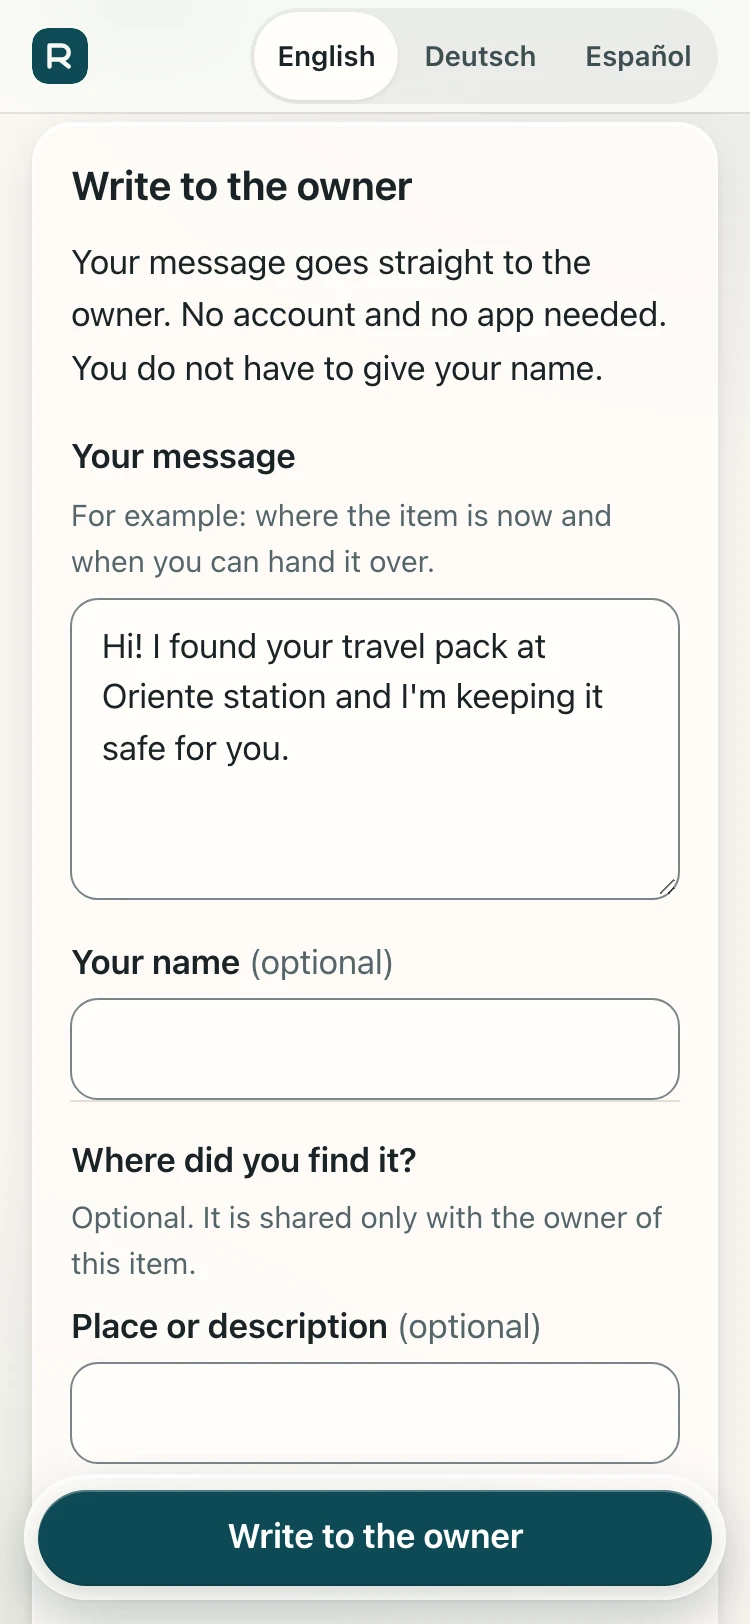
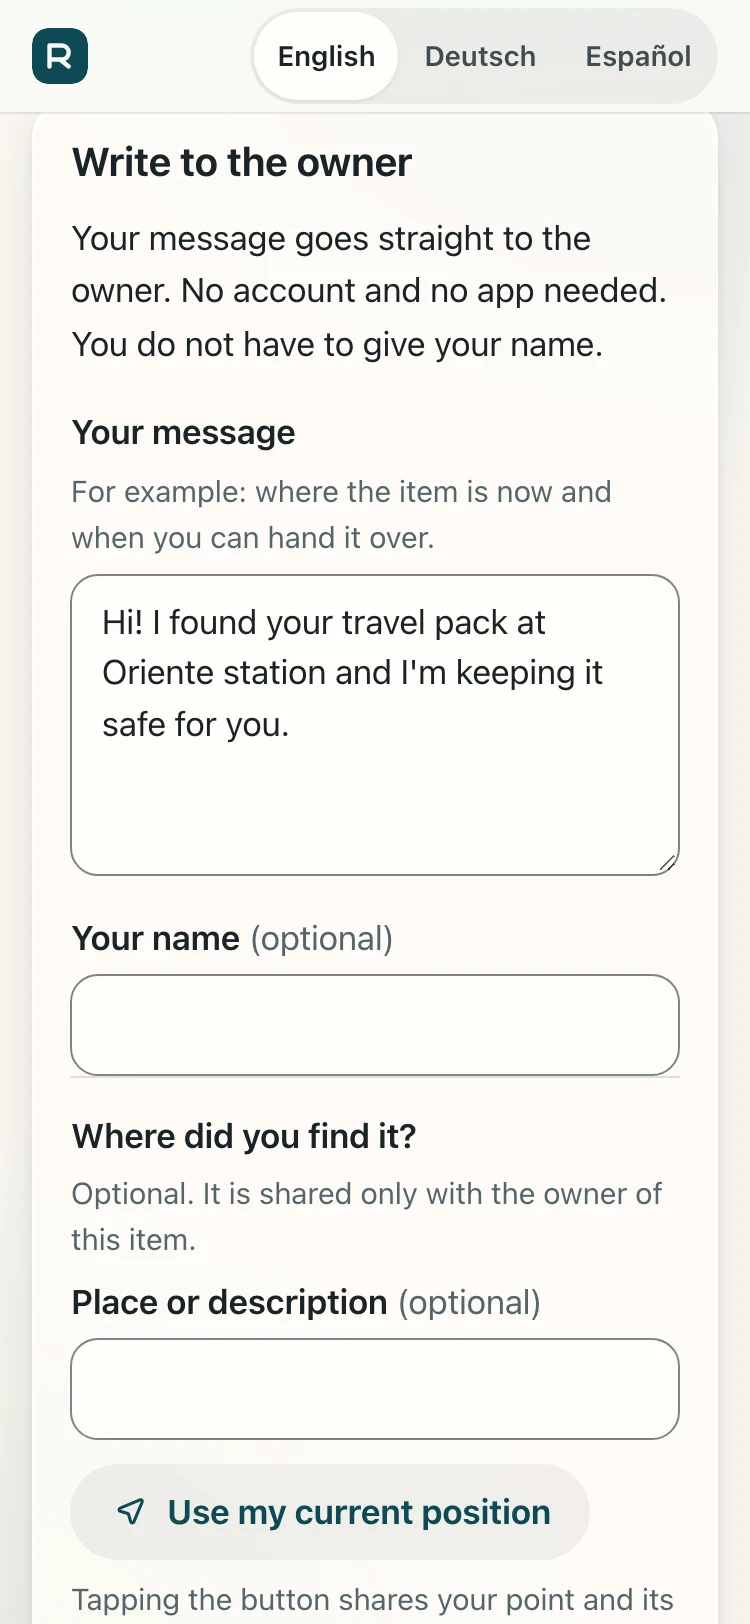
docs: README screenshots of the new UI and docs for the mobile release
Regenerated README screenshots (fictional data) showing the chat, luggage illustrations and icons; README features, layout and commands; CLAUDE.md icon pipeline and chat contracts; operations (migration 0006, sprite caching, theme-init precache), security (owner location, timeline polling), decisions, plan section J.

diff --git a/README.md b/README.md
@@ -12,17 +12,24 @@ no shared instance for other people to sign up to.
 
 ## Features
 
-- **Finder pages** (`/t/<token>`) in English, German and Spanish. A finder can see the public card, start a
-  conversation, and share a location after an explicit tap. First contact is protected by Cloudflare Turnstile
-  and per-IP, per-tag and per-conversation rate limits.
+- **Finder pages** (`/t/<token>`) in English, German and Spanish. A finder can see the public card and start a
+  conversation. The conversation is one chat timeline with live refresh: Enter sends, and the finder can share
+  their location in one tap (two-stage geolocation, coarse then precise). First contact is protected by Cloudflare
+  Turnstile and per-IP, per-tag and per-conversation rate limits.
 - **Owner panel** at a separate host, behind Cloudflare Access. Manage items, tags, conversations, return plans
-  and recoveries, and settings.
+  and recoveries, and settings. The conversation view is a chat too. The owner can pick their own location for a
+  return plan or an item, or share it in a conversation, after an explicit tap.
+- **Icons and illustrations**: one custom icon set shared by the panel and the finder pages, and a dimensional
+  illustration per luggage category as the placeholder when there is no photo.
 - **Printable cards**: a card layout (CR80 size, with bleed and trim marks), plus a quick paper card as PNG or PDF.
   Printing notes are in `docs/printing.md`.
 - **Place names** for shared coordinates via OpenStreetMap Nominatim. Coordinates are shown when no name resolves.
 - **Email alerts** to the owner through Cloudflare Email Service (`send_email` binding).
-- **Installable owner PWA** (service worker never caches private data).
-- **Web Push** for the owner: in progress.
+- **Installable owner PWA**: Android install button, iOS Add to Home Screen guide, offline shell, update toast.
+  The service worker never caches private data.
+- **Web Push** to the owner's devices. Payloads carry no message content and are encrypted for each device (RFC 8291).
+- **Planned**: proof photos for items, shared with one finder only through revocable, time-limited grants
+  (ADR 0006).
 
 ## Screenshots
 
@@ -79,10 +86,13 @@ Versions are pinned in `package.json`. Decisions are in `docs/decisions.md`.
 | `src/app/` | Owner panel SPA (React) |
 | `src/shared/` | zod schemas, QR, map links, card layouts; shared by Worker and SPA |
 | `src/sw/` | Owner PWA service worker |
-| `public/p/` | Static files for finder pages (served without the Worker) |
+| `src/assets/` | Icon (`icons/`), empty-state (`empty/`) and luggage illustration (`item-art/`) sources; `pnpm icons:build` compiles them into `src/app/ui/*.generated.ts` and the sprite `public/p/icons.svg` (generated, do not edit) |
+| `public/p/` | Static files for finder pages (served without the Worker): progressive-enhancement scripts, the icon sprite |
+| `vite/` | Vite plugins: service worker build (`sw-plugin.ts`) and icon compilation (`icons.ts`) |
+| `wrangler.example.jsonc` | Committed Wrangler template; the real `wrangler.jsonc` is git-ignored |
 | `migrations/` | D1 SQL migrations; applied migrations are never edited |
 | `test/`, `e2e/` | Unit and integration tests (in workerd), Playwright end-to-end tests |
-| `scripts/` | Release guard, VAPID key generation, icon generation, backup and restore helpers |
+| `scripts/` | Release guard, VAPID key generation, icon build and PWA icon generation, backup and restore helpers |
 | `docs/` | Decisions, security, operations, printing, design system, ADRs, specs, architecture |
 
 ## Run locally
@@ -95,6 +105,14 @@ pnpm install
 cp .dev.vars.example .dev.vars   # local secrets; git-ignored, never commit it
 pnpm db:migrate:local
 pnpm dev                    # panel at http://localhost:5173, tag pages at /t/<token>
+```
+
+Assets (run after changing anything in `src/assets/`, or the PWA icons):
+
+```bash
+pnpm icons:build            # compile src/assets into the generated TypeScript modules and public/p/icons.svg
+pnpm icons:pwa              # regenerate the PWA PNG icons (needs Playwright's Chromium)
+pnpm screenshots            # regenerate the README screenshots with fictional data
 ```
 
 Locally the panel is reachable without Access through a loopback-only development bypass. The dev bypass only
@@ -144,15 +162,16 @@ uses your `wrangler.jsonc` when it exists and the template otherwise.
 
 ## Status and roadmap
 
-Current: finder pages, owner panel, items, tags, conversations, return plans, recoveries, printable cards, place
-names, email alerts and the installable owner PWA.
+Done: finder pages and chat, owner panel, items, tags, conversations, return plans, recoveries, printable cards,
+place names, email alerts, the installable owner PWA, owner Web Push, owner location sharing, and the icon and
+illustration set.
 
 Next, in order (see `docs/architecture/next-phases.md`):
 
-1. Owner Web Push (in progress; ADR 0003)
+1. Proof photos with owner-controlled sharing to one finder (ADR 0006)
 2. Finder PWA and finder push
 3. Sealed end-to-end encrypted conversations (ADR 0004)
-4. Optional native app with Expo (ADR 0005)
+4. Native gate, then optional native app with Expo (ADR 0005)
 
 ## License
 

diff --git a/docs/plan.md b/docs/plan.md
@@ -53,30 +53,31 @@ Sources: docs/audit/mobile-audit.md (M-xx), docs/audit/final-audit.md (F-xx, L-x
 docs/specs/004-mobile-ux, docs/architecture/next-phases.md, ADRs 0002–0006, code reviews. Status: ▶ in progress ·
 ☐ to do · ? verify whether already done. Production today = commit 152aa11 (PWA + owner push, migrations 0001–0005).
 
-### J1 · Mobile UX — spec 004 (▶ agents running)
-- ▶ 4M.1 Finder location: apply on first tap (no silent drop, M-01), single consent, two-stage geolocation, iOS/Android
+### J1 · Mobile UX — spec 004 (✓ delivered in 1c9c549 + bbb0f11, open items listed)
+- ✓ 4M.1 Finder location: apply on first tap (no silent drop, M-01), single consent, two-stage geolocation, iOS/Android
   re-enable guidance, retry, webview hint, error styling (M-07).
-- ▶ 4M.2 Finder conversation as a chat: one timeline, anchored composer with safe areas, autogrow, send without jump,
-  live refresh in place, smart scroll, aria-live; remove floating bar on /t (M-08); 320 px Turnstile overflow (M-09);
-  native share of the private link; footer tap targets (M-06).
-- ▶ 4M.3 Owner chat: full-height layout, compact autogrow composer, no gap above the tab bar, hide tab bar while typing,
-  "New messages" pill, finder name as title, read receipts (M-05).
-- ▶ 4M.4 Owner location (owner decision: build it all): server API + accuracy rules ▶; panel "Use my location" in
-  return plans and item location, "Share my location" in the thread ☐ (after the API contract) (M-02).
-- ▶ 4M.5 Install: Android install button, iOS Add-to-Home-Screen guide, one-time hint (M-03); theme-color follows the
-  choice, no flash on load, theme controls in sync (M-12); landscape shell (M-10).
-- ▶ 4M.6 No focus zoom (fields ≥ 16 px on touch, M-04) + regression test; settings apply instantly / save bar never
-  covers navigation (M-11).
-- ▶ 4M.7 P2: place search "unavailable"; tag QR as PNG + share; share keeps user activation; offline keeps language;
-  formatted note timestamps; confirm "Add tag"; 404 for unknown slugs; duplicate requests; Trackers link relabel.
-- ☐ Panel P2s not yet assigned: NFC is text only (Web NFC on Android — decide); finder webview hint is in 4M.1.
+- ✓ 4M.2 Finder conversation as a chat: one timeline, anchored composer with safe areas, autogrow, send without jump,
+  live refresh in place, smart scroll, aria-live; floating bar removed on /t (M-08); 320 px Turnstile (M-09); native
+  share of the private link; footer tap targets (M-06).
+- ✓ 4M.3 Owner chat: full-height layout, compact autogrow composer, no gap above the tab bar, "New messages" pill,
+  finder name as title. ☐ Read receipts (M-05): `finder_read_at` is stored, but ConversationDetail lacks
+  `finderReadAt`, so the panel cannot show it yet.
+- ✓ 4M.4 Owner location: API with accuracy rules; "Use my location" in return plans and item location; "Share my
+  location" in the thread, hourly cap per conversation (M-02).
+- ✓ 4M.5 Install: Android install button, iOS Add-to-Home-Screen guide, one-time hint (M-03); theme-color follows the
+  choice, no flash on load (M-12); landscape shell (M-10).
+- ✓ 4M.6 No focus zoom: fields ≥ 16 px on touch (M-04) with regression test; settings apply instantly (M-11).
+- ✓ 4M.7 P2: place search "unavailable"; tag QR as PNG + share; share keeps user activation; offline keeps language;
+  formatted note timestamps; confirm "Add tag"; 404 for unknown settings slugs; duplicate requests; Trackers link relabel.
+- ☐ Web NFC decision: NFC is still text only (Web NFC is Chrome/Android only; Safari cannot write).
 - ☐ 4M.9 Verification: real iOS Safari in the Simulator (runtime download failed on a network timeout — retry),
   ui-qa re-audit at 320/375/393/landscape, code review, deploy.
 
-### J2 · Visual identity (▶)
-- ▶ Custom icon set (grammar, outline + filled tab icons, categories, states) as a shared sprite.
-- ▶ Dimensional luggage illustrations per category as no-photo placeholders, tintable.
-- ☐ Adopt the sprite on finder pages (follow-up from the design agent).
+### J2 · Visual identity (✓ delivered in 1c9c549)
+- ✓ Custom icon set (grammar, outline + filled tab icons, categories, states) as one shared sprite, compiled by
+  `pnpm icons:build`; drift and missing-name checks in `test/icons.test.ts`.
+- ✓ Dimensional luggage illustrations per category as no-photo placeholders, tintable (`src/assets/item-art`).
+- ✓ Sprite adopted on finder pages (`public/p/icons.svg`, served `no-cache`).
 - ☐ Decide: per-item colour field (migration) so illustrations match the real item.
 
 ### J3 · Proof photos and sharing with the finder (▶ ADR 0006 being written)

diff --git a/docs/decisions.md b/docs/decisions.md
@@ -21,6 +21,11 @@ Researched 2026-10-13. ✅ = verified in official docs that day; ⚠ = not ve
 | Tests | Vitest 4 + `@cloudflare/vitest-plugin` (runs in workerd) ✅, Playwright E2E | Real runtime, real D1 | — | Plugin incompatible with Vitest 5 (observed) | Mocked bindings |
 | Backups | D1 Time Travel ✅ + nightly JSON export to R2 (cron) + `wrangler d1 export` runbook ✅ | Two independent restore paths | Free | R2 and D1 share an account (account loss) → periodic local copy in runbook | Third-party backup service |
 | Domain/DNS | Domain at Hostinger, nameservers moved to Cloudflare (full setup) | Partial/CNAME setup needs Business plan ✅ | Free | Must copy MX/TXT first; disable DNSSEC first ✅ | Keep Hostinger DNS (no Custom Domains/Access) |
+| Chat input (both sides) | Enter sends, Shift+Enter is a new line, Ctrl/Cmd+Enter also sends; IME composition and key repeat never send; `enterkeyhint="send"`; the composer autogrows | One chat model on phones and desktops; the key reads "Send" on mobile keyboards | — | Hardware keyboards users who expect Enter for a newline must use Shift+Enter | Send button only (more taps on a phone) |
+| Settings apply | Toggles and selects apply at once (`settings-patch.ts`); free-text fields keep an explicit Save | A save bar stacked over navigation and the tab bar (audit M-11) | — | A typed value is lost if the owner leaves without saving | Global save bar for all settings |
+| Install affordance | Android: own button that calls the kept `beforeinstallprompt` event; iOS: Add to Home Screen guide; dismissible one-time hint (`return.installHint`); never shown inside the installed app | iOS has no install prompt; the native banner is not controllable | — | `beforeinstallprompt` is Chromium-only; iOS behaviour needs a real device (4M.9) | Rely on the browser banner only |
+| Two-stage geolocation | Quick coarse fix (`enableHighAccuracy: false`, 60 s cache, 8 s) shown at once, then one precise attempt (15 s); the error callback is the source of truth; a denial is never retried silently | Indoors a precise GPS lock can take a minute; the Permissions API is unreliable on Safari (audit M-07) | — | Coarse fixes can be off by hundreds of metres, shown as approximate | Single high-accuracy request with strict timeout |
+| Icon and illustration pipeline | Sources in `src/assets/{icons,empty,item-art}` compiled by `pnpm icons:build` into TypeScript modules and one shared SVG sprite (`public/p/icons.svg`); drift test in `test/icons.test.ts` | One set for the panel and the finder pages, no runtime SVG parsing, no icon font, tintable via `currentColor` | Build step (`pnpm icons:build`) | Generated files must be regenerated after every source change | Icon font; per-component inline SVG; a third-party icon set (licence and grammar control) |
 | Hostinger MCP | Official hosted server `https://mcp.hostinger.com` (OAuth) ✅ — read-only use, Domains/DNS only | No API token stored locally | — | Hosted server exposes all products; restrict via hPanel toggles ⚠ | Global npm install (studio rule) |
 
 ## Facts that shape the product

diff --git a/CLAUDE.md b/CLAUDE.md
@@ -22,6 +22,8 @@ Node 24 via fnm, pnpm. Versions pinned in `package.json`; decisions in `docs/dec
 | E2E | `pnpm test:e2e` |
 | Build / deploy | `pnpm build` / `pnpm run release` (needs approval; `pnpm deploy` is a different pnpm built-in) |
 | Regenerate binding types | `pnpm cf-typegen` after editing `wrangler.example.jsonc` (the template) |
+| Compile icons and illustrations | `pnpm icons:build` after editing `src/assets/**` |
+| Regenerate PWA PNG icons | `pnpm icons:pwa` (needs Playwright's Chromium) |
 
 ## Architecture
 - `src/worker/index.ts` — host routing: `PUBLIC_HOST` serves finder pages (`/t/:token`, `/c/:token`),
@@ -34,6 +36,15 @@ Node 24 via fnm, pnpm. Versions pinned in `package.json`; decisions in `docs/dec
 - `src/shared/*` — zod contracts (`schemas.ts`, `settings.ts`), QR, maps links, card layouts. Used by worker and SPA.
 - `src/sw/*` + `vite/sw-plugin.ts` — owner-panel service worker, emitted as `/sw.js` at build (`SW_KILL=1` emits the
   kill switch). Routing rules are the pure `src/shared/sw-routing.ts`. `src/app/*` — owner panel SPA. `public/p/*` — static assets for finder pages (skip the Worker).
+- `public/p/chat.js` + `public/p/location.js` — finder chat and GPS button. Progressive enhancement: forms work without
+  JS. A failed POST may be replayed as a native submit only when the response carries `X-Form-State: 1` (the page
+  re-renders the typed text); any other error stays inline, so a message is never duplicated.
+- `src/app/lib/geolocation.ts` — owner geolocation (two-stage: coarse, then precise). Called only from a tap.
+- Icons: sources in `src/assets/{icons,empty,item-art}`; `pnpm icons:build` writes `src/app/ui/*.generated.ts` and
+  `public/p/icons.svg`. Generated files are never hand-edited. `test/icons.test.ts` fails on drift and on any used
+  icon name that does not exist.
+- Lint config is `biome.jsonc`. The SVG `<title>` rule is off only for icon sources and the generated sprite (the
+  accessible name lives where the icon is used).
 - `migrations/` — D1 migrations. Never edit an applied migration; add `NNNN_*.sql`.
 
 ## Conventions
@@ -66,6 +77,7 @@ Node 24 via fnm, pnpm. Versions pinned in `package.json`; decisions in `docs/dec
 - Anything a service worker may store must pass `isStorable()` in `src/shared/sw-routing.ts`; never add `/api/` or
   `/cdn-cgi/` paths there. Any change to the panel changes `sw.js` (build id), which is how updates roll out.
 - Regenerate PWA icons with `pnpm icons:pwa` (needs Playwright's Chromium); the manifest is `public/manifest.webmanifest`.
+- `public/p/icons.svg` is served `no-cache` (revalidated), not immutable: it is not versioned in its URL.
 
 ## Definition of Done
 - Acceptance criteria met and demonstrated (test, screenshot or command output).

diff --git a/docs/security.md b/docs/security.md
@@ -27,6 +27,8 @@ attacker on the internet without any tag, someone with a copied finder link.
 | Forged or replayed pushes | VAPID ES256 JWT per push service origin (12 h, cached in isolate memory); private key only as the `VAPID_PRIVATE_KEY` secret, pair mismatch disables push; rotation invalidates all subscriptions (runbook in operations) | `test/webpush.test.ts` (RFC 8291 vectors, JWT round trip) |
 | Push subscription theft or takeover | Endpoint and keys are never returned by the API; foreign ids give 404 and an endpoint already stored for another owner is never reassigned; dead endpoints (404/410, 5 failures over 24 h) are deleted | `test/push.test.ts` |
 | Push flooding | 60/h per owner, 2 min follow-up cooldown per conversation, 10 devices, 5 s timeout, no inline retry | `test/push.test.ts` |
+| Owner location sharing | Only on an explicit "Share my location" tap (or "Use my location" in a plan/item form); never automatic or emailed; per-conversation hourly cap (20); the shared point is visible only to the finder of that conversation; an item's last known coordinates are owner-only, never rendered on finder pages, cleared when the location text is typed by hand; accuracy stored as given, a poor fix stays approximate | `test/owner-location.test.ts`, owner location E2E (`location-privacy.spec.ts`) |
+| Timeline polling | `GET /c/:token/timeline` uses the same capability check as the conversation page (an unknown token gets a 404), `no-store` by default, and the per-IP read budget (60/min) | `test/public.test.ts` |
 | State tampering | Server-side state machines for recoveries and proposals; actor checks (only the other party accepts) | recovery/proposal tests |
 | Accidental destruction | Delete requires archive + typed name; restore only into an empty inventory; tags never deleted, only revoked; nightly backups | items/data tests |
 

diff --git a/docs/operations.md b/docs/operations.md
@@ -255,3 +255,12 @@ Every attempt is a `notifications` row (`channel = 'push'`, `recipient` = subscr
 **Debugging.** Logs are structured (`msg: "push delivery"`, subscription id, status, error code such as `http_413` or
 `timeout`; never the endpoint or payload). Non-transient failures are logged at `error` level because they mean a bug in
 our request or a key mismatch.
+
+## 11. Migration 0006 and static assets (mobile UX release)
+- `migrations/0006_owner_locations.sql` is additive: three nullable `REAL` columns on `items` (`last_known_lat`,
+  `last_known_lng`, `last_known_accuracy_m`). Old rows read NULL. The previous Worker keeps working against the
+  migrated schema, so the usual order holds: migrate, then deploy. Record the D1 Time Travel bookmark first.
+- `/p/icons.svg` (the shared icon sprite for finder pages) is served `Cache-Control: no-cache` (`public/_headers`):
+  it is revalidated, not immutable, because its URL is not versioned. Finders pick up a new sprite on the next load.
+- `/theme-init.js` (the blocking script that applies the theme before first paint) is in the owner PWA precache list
+  (`vite/sw-plugin.ts`), so the offline shell applies the same theme as the online one.
